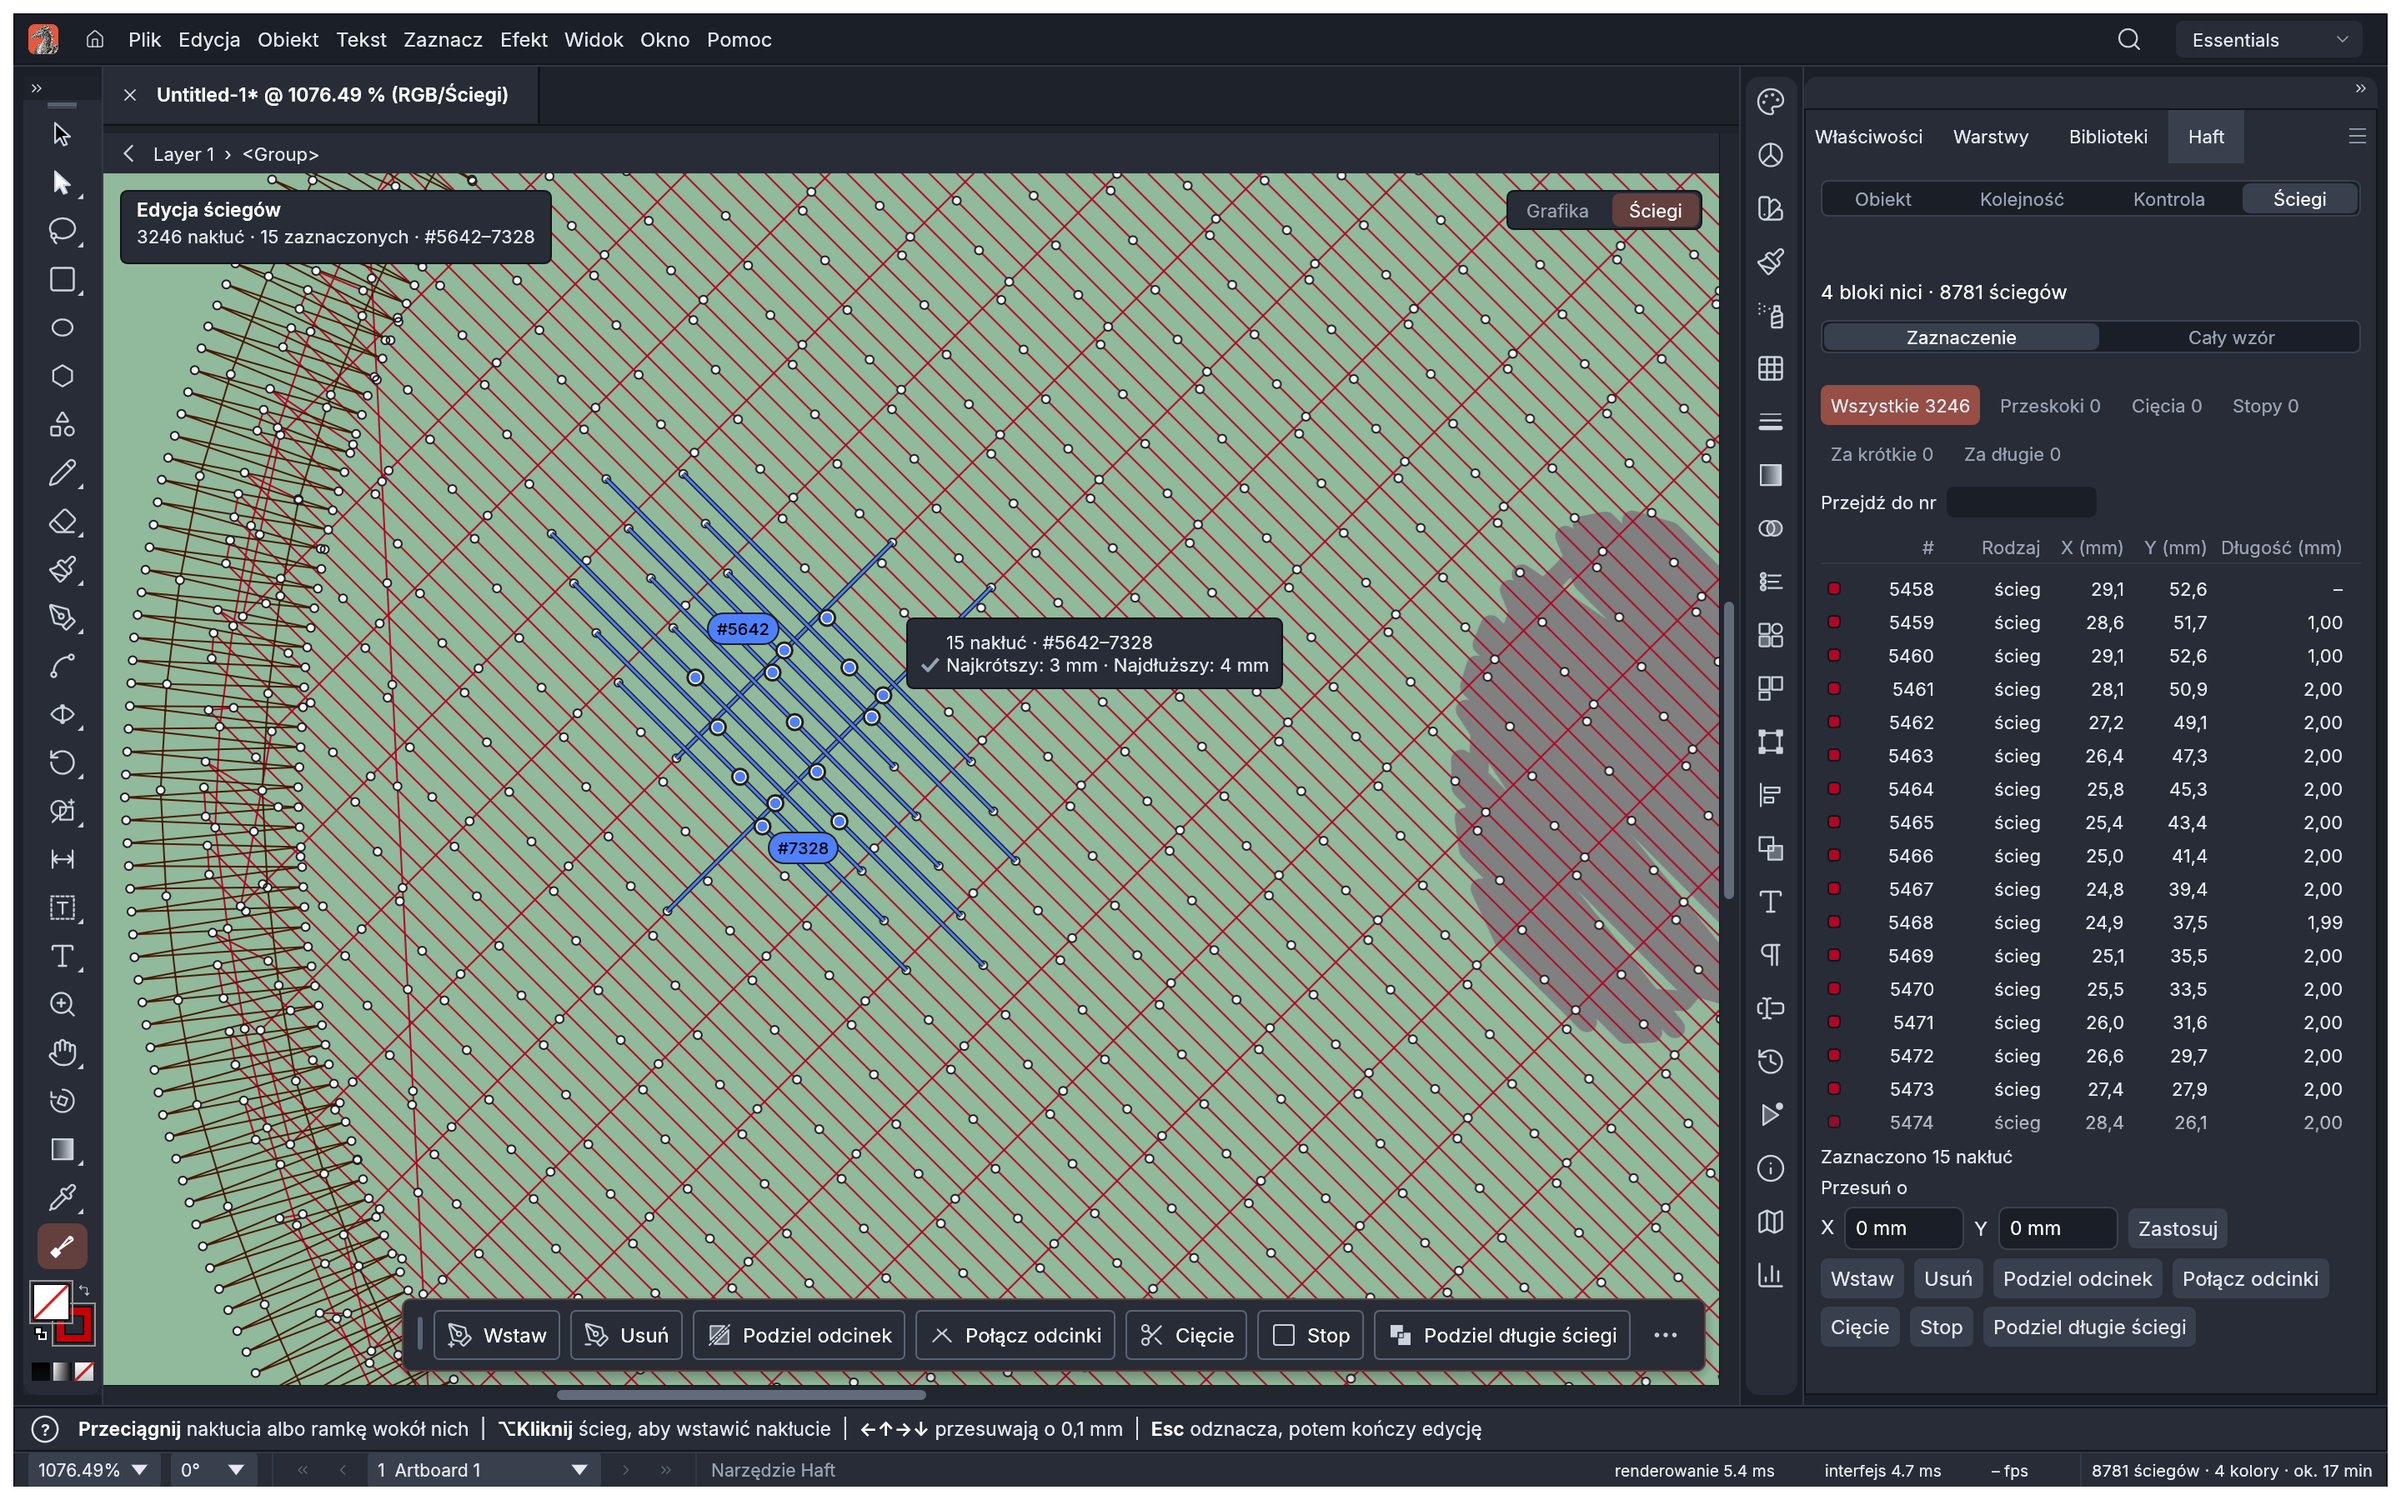
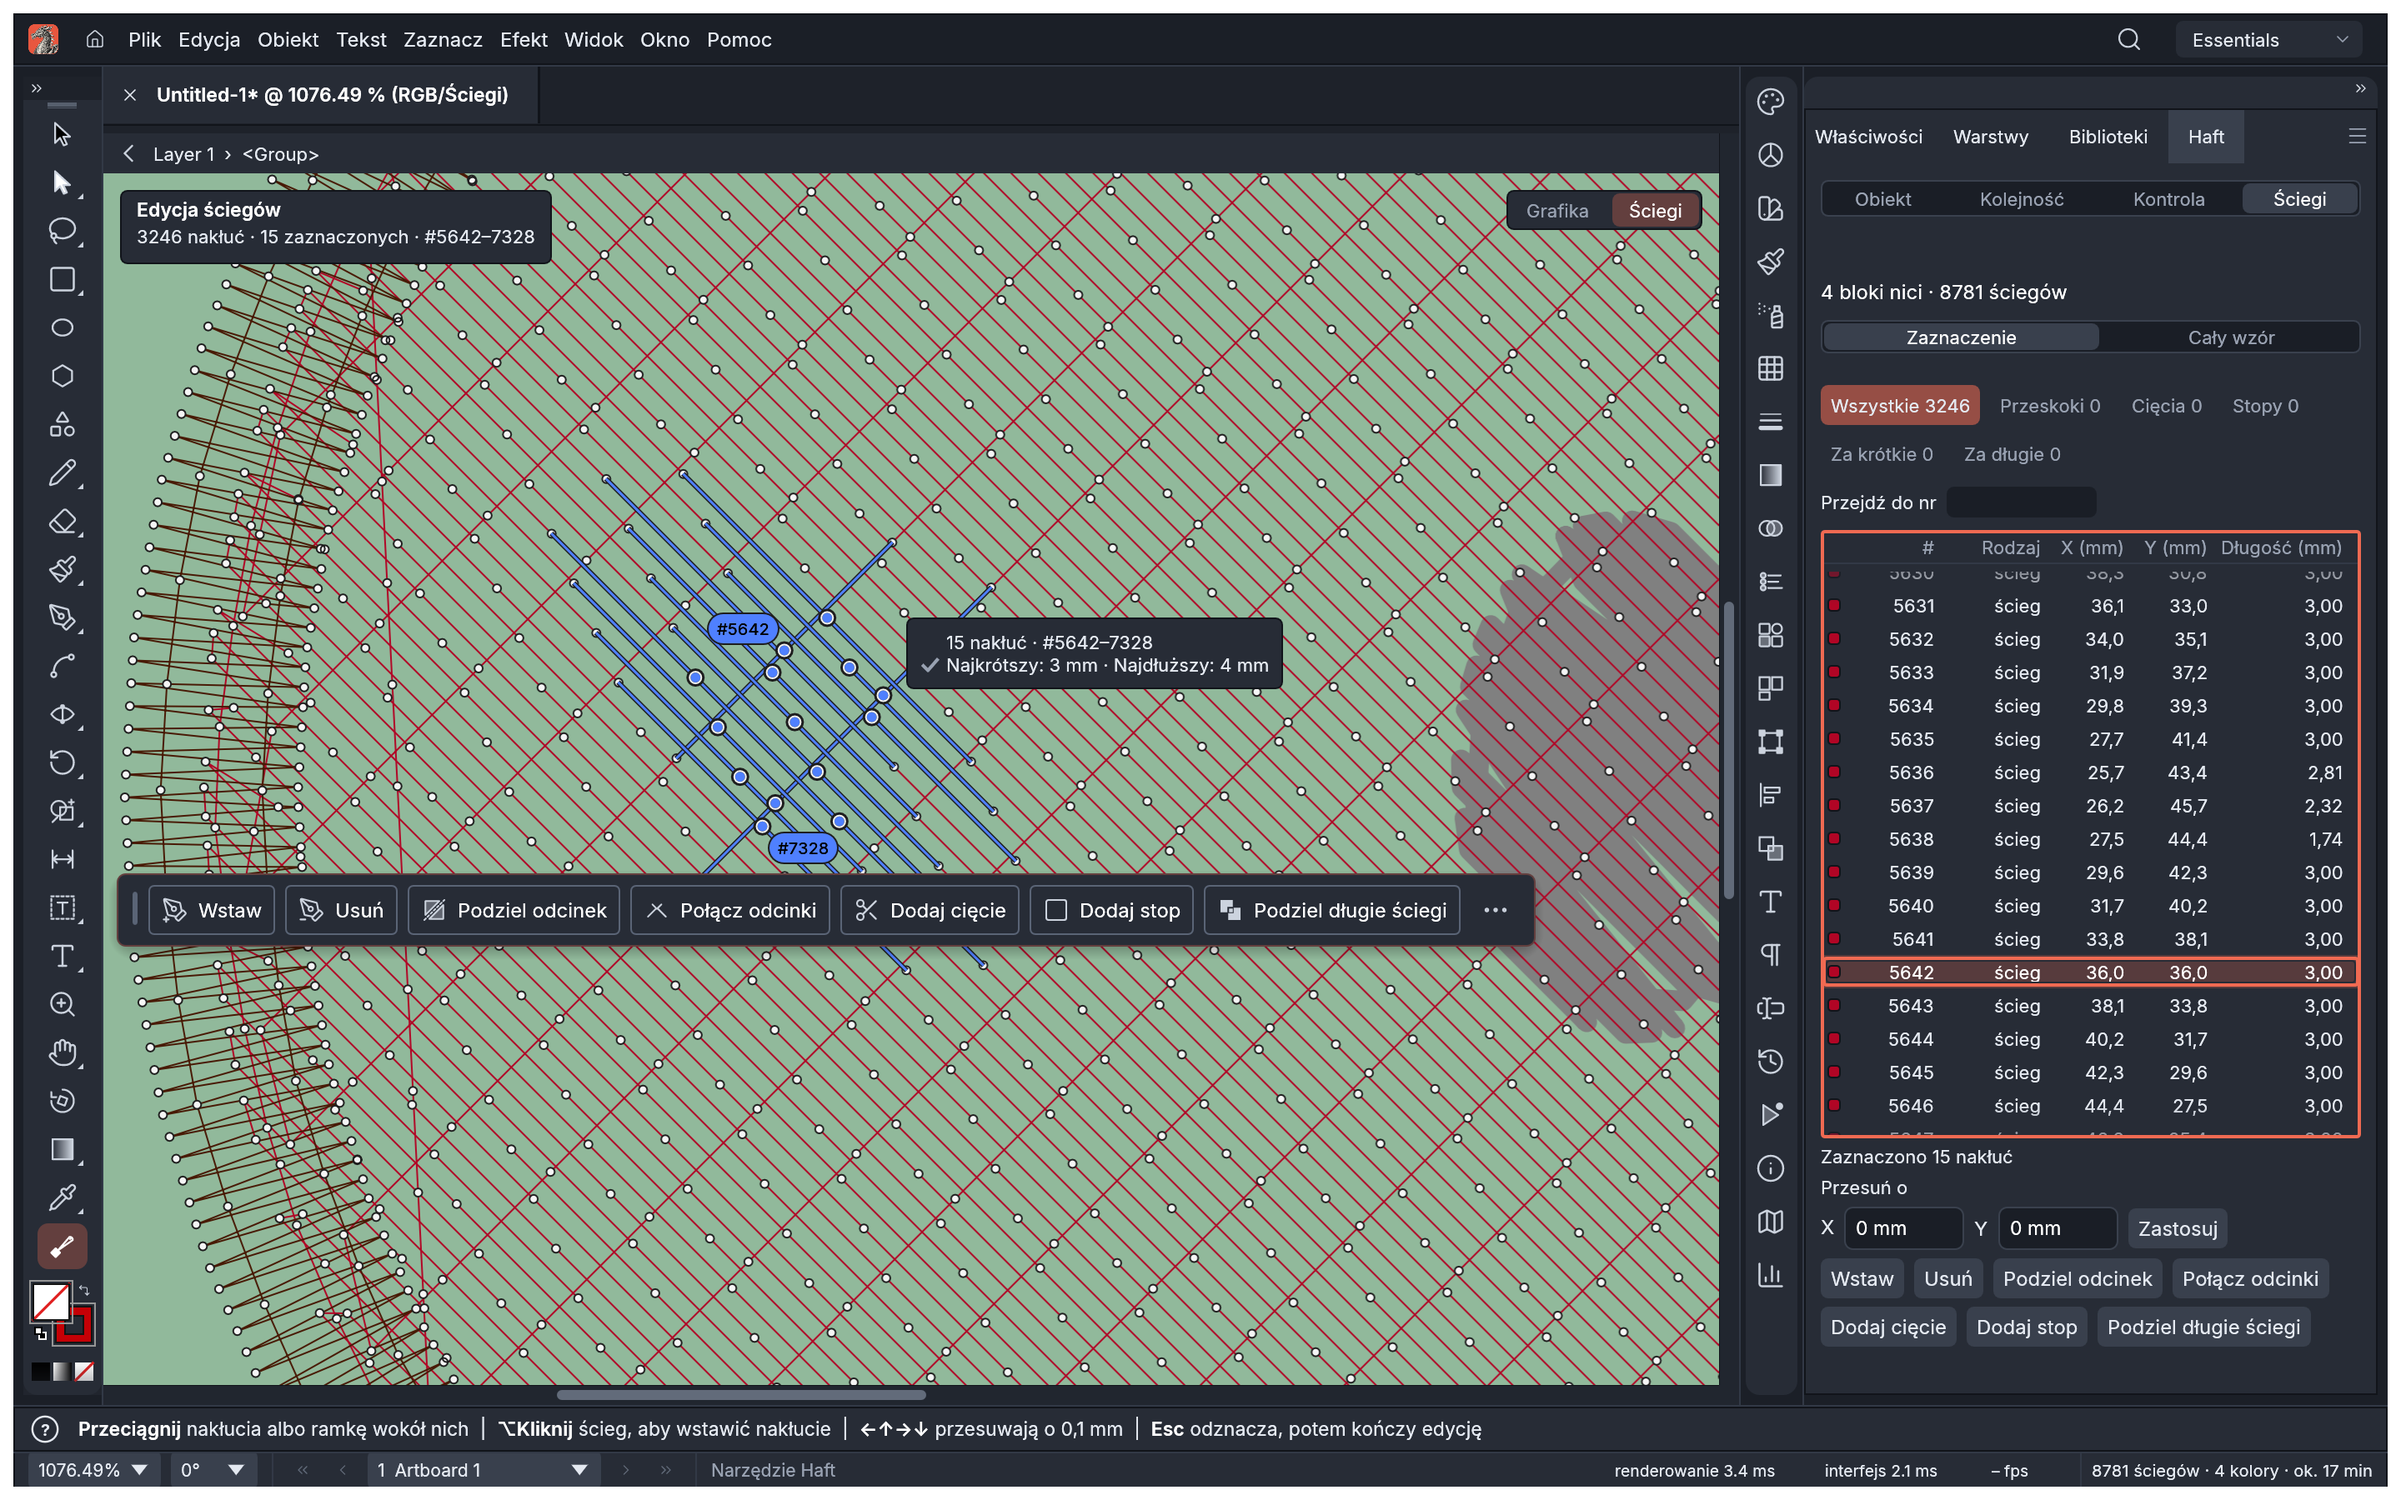
Embroidery stitch editing: the pictures are retaken, shown in the guide and re-encoded smaller
- Retaken: the bar's Polish words are the owner's („Dodaj cięcie”,
  „Dodaj stop”), and the editing pictures now show what their
  generator says: the first selected needle point's record is put in
  focus in the Stitches tab, so its row is in view and lit (before, the
  rows shown lay above every selected record).
- Shown in `docs/embroidery.md`, under Editing stitches on the canvas
  and The Stitches tab, as the earlier pictures are.
- Re-encoded losslessly (zlib level 9; every pixel checked identical):
  the two editing pictures from 3.5 MB to 1.5 MB, the tab's from 563 to
  406 KB.

diff --git a/crates/ui-egui/src/embroidery/tests_shots.rs b/crates/ui-egui/src/embroidery/tests_shots.rs
@@ -95,12 +95,21 @@ fn editing(app: &mut VectorcraftApp, id: u64) {
 }
 
 /// Zoomed in on the disc's left side (its needle points drawn as circles), the needle points in a
-/// box there selected (the Contextual Task Bar under them, their rows lit in the Stitches tab).
+/// box there selected (the Contextual Task Bar under them), and the first of them in focus in the
+/// Stitches tab, its row in view and lit (the others' records lie further down the list).
 fn zoomed_and_selected(app: &mut VectorcraftApp, _: u64) {
     app.run("view.zoomTo", json!({"rect": EDIT_VIEW, "margin": 0})).unwrap();
     let mm = |v: f64| v * 25.4 / 72.0;
     let [x0, y0, x1, y1] = EDIT_SELECTED;
     app.run("embroidery.selectNeedlePoints", json!({"rect": [mm(x0), mm(y0), mm(x1), mm(y1)]})).unwrap();
+    let view = app.view_info();
+    let first = app.session.stitch_editing(view).and_then(|e| e.ends).and_then(|[(_, a), _]| a).expect("the selection's first record");
+    crate::panels::embroidery::stitches::reveal(app, first);
+    // In focus, not shown: a click on a row while stitches are edited selects, and marks nothing.
+    let uid = app.session.active().unwrap().uid;
+    if let Some(d) = app.embroidery.stitches.docs.get_mut(&uid) {
+        d.shown = None;
+    }
 }
 
 /// The box the editing pictures zoom to, and the box whose needle points they select, document

diff --git a/docs/embroidery.md b/docs/embroidery.md
@@ -266,6 +266,10 @@ Trim, Stop, Split Long Stitches) are in the Contextual Task Bar under it, in the
 [Manual stitches and needle points](#manual-stitches-and-needle-points) › Limits of stitch editing,
 under Architecture.
 
+![Editing stitches, zoomed in on the red disc's edge: its needle points as two-tone circles, those in a box selected with the live check beside them, the Contextual Task Bar under them, the first one's row lit and in focus in the Stitches tab](images/embroidery-stitch-editing.png)
+
+![The same in Polish](images/embroidery-stitch-editing-polish.png)
+
 **The Stitches tab.** The Embroidery panel's fourth tab lists the design's records as the Sewing
 order and the Check tab number them: for the selection (while stitches are edited, the object
 edited) or the whole design, filtered to jumps, cuts, stops or the stitches too short or too long,
@@ -289,8 +293,10 @@ list has the keyboard and marked quietly while the keys reach the canvas. While 
 records are being judged (after an edit, or the Check tab's format changed), the rows drawn last
 stay, dimmed, with Go to and the foot. The tab strip's names are short so that four tabs fit in
 every language ("Order" for Sewing Order, whole in its tooltip). The words of stitch editing and the
-Stitches tab, in English and Polish and the terms every language chose: [Manual stitches: the
-words](manual-stitches-words.md).
+Stitches tab, in English and Polish and the terms every language chose:
+[Manual stitches: the words](manual-stitches-words.md).
+
+![The Stitches tab outside editing: the whole design's records, one in the middle in focus and marked on the canvas](images/embroidery-stitches-tab.png)
 
 **Settings on objects.** Each object keeps settings for its fills and for its strokes (one set
 for all of its fills, one for all its strokes), which beat an export's options, the document's
